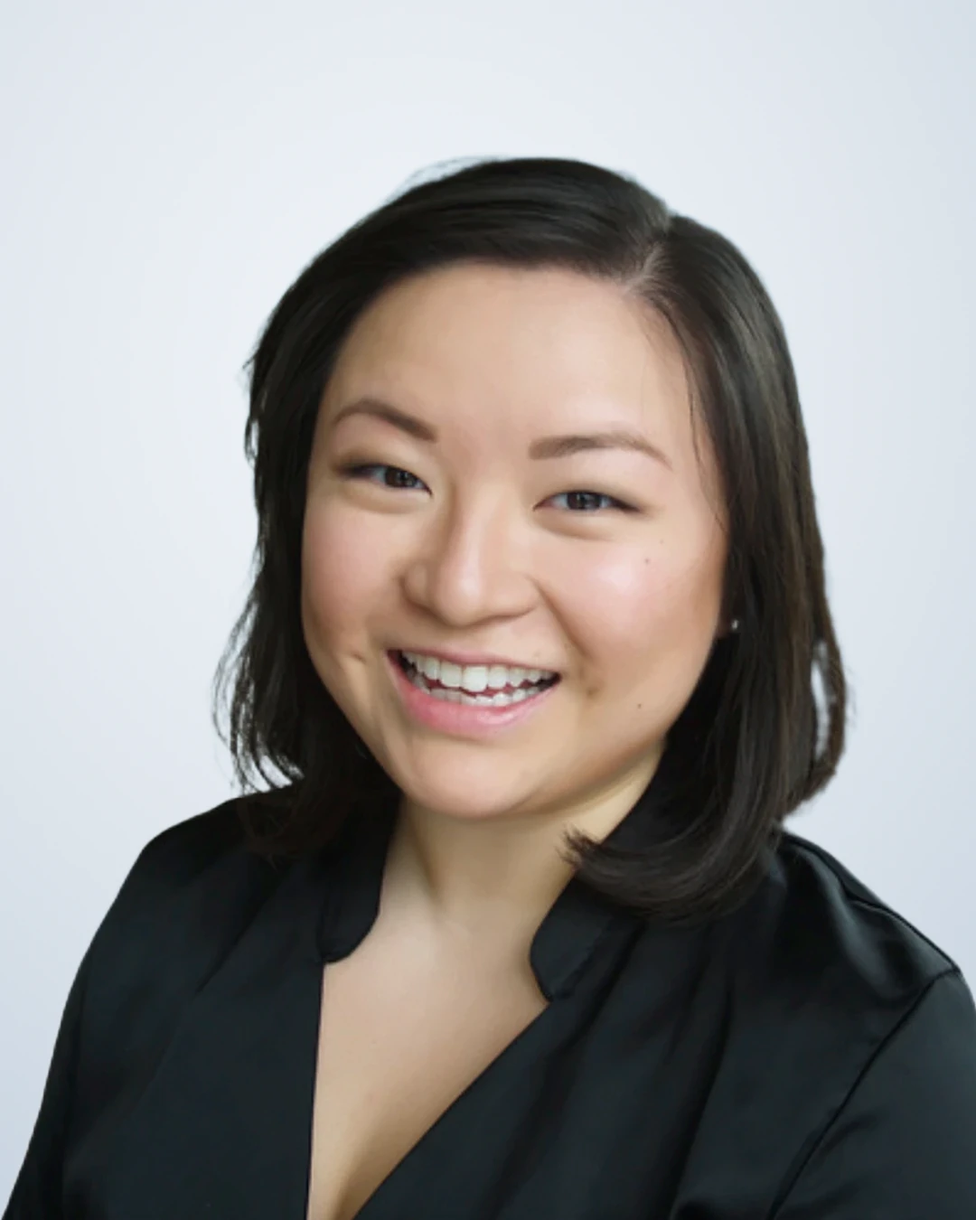
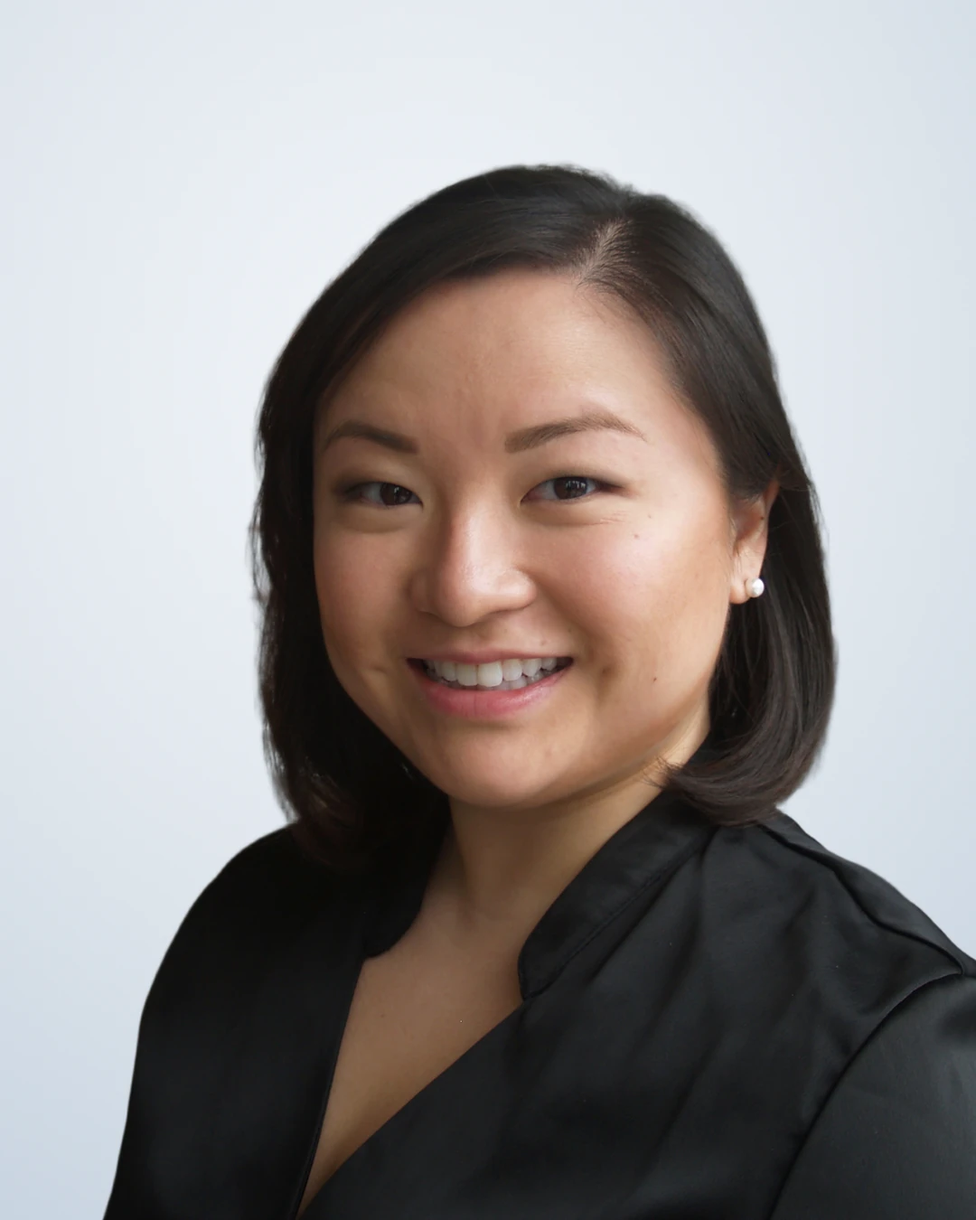
Hero loading still, Elaine's RSR headshot, robots.txt AI crawlers, drop languages
- Homepage hero: a still of the parcel-conveyor frame (no people, navy wall
  behind the headline) shows until the video is actually playing, then the
  video fades in. It stays for reduced-motion visitors (the video is paused,
  not just hidden) and when autoplay is refused; the pause button now
  follows real playback. The still is the LCP image (17-47 KB WebP).
- Elaine Kwon's portraits rebuilt from the RSR-Chanlogic headshot on the
  same eye line and face scale as before.
- robots.txt: AI crawler group lists current agent names and repeats the
  private paths.
- Removed Elaine's languages from the profile and Person JSON-LD.

Claude-Session: https://claude.ai/code/session_017EsnaMyvvQKwNurEzYtyMp

diff --git a/site-src/pages/Author.html b/site-src/pages/Author.html
@@ -431,7 +431,7 @@ footer a{color:#F8F6F1}footer a:hover{color:#DCBF85}
 <div class="kq-root" style="font-family: 'Neue Haas Grotesk Display Pro', 'Neue Haas Grotesk Text Pro', 'Helvetica Neue', Helvetica, Arial, sans-serif; color: #262524; background: #F8F6F1; font-size: 18px; line-height: 1.6">
 <header class="kq-head" style="position: sticky; top: 0; z-index: 20; background: #102A4C; padding: 0 clamp(20px, 4.4vw, 64px)"><nav aria-label="Primary" style="max-width: 1312px; margin: 0 auto; min-height: 88px; display: flex; flex-wrap: wrap; align-items: center; justify-content: space-between; gap: 16px 32px"><a href="index.html" aria-label="Kwontified home" style="display: flex"><img src="assets/023b2419eb30.svg" alt="Kwontified" style="height: 26px; width: auto"></a><div class="kq-links" style="display: flex; flex-wrap: wrap; align-items: center; gap: 8px 32px; font-size: 15px"><a href="Capabilities.html" style="color: #F8F6F1; text-decoration: none">Capabilities</a><a href="Channels.html" style="color: #F8F6F1; text-decoration: none">Channels</a><a href="Work.html" style="color: #F8F6F1; text-decoration: none">Work</a><a href="WhyKwontified.html" style="color: #F8F6F1; text-decoration: none">Why Kwontified</a><a href="Perspectives.html" style="color: #F8F6F1; text-decoration: none">Perspectives</a><a href="About.html" aria-current="page" style="color: #DCBF85; text-decoration: none">About</a><button type="button" class="kq-cmdk-btn" data-cmdk aria-label="Search the site" style="background: none; border: 0; border-radius: 0; color: #F8F6F1; font: inherit; font-size: 15px; height: auto; min-height: 44px; padding: 0; display: inline-flex; align-items: center; gap: 8px; cursor: pointer"><svg aria-hidden="true" width="16" height="16" viewBox="0 0 16 16" fill="none" stroke="currentColor" stroke-width="1.5" stroke-linecap="square"><circle cx="7" cy="7" r="4.5"></circle><path d="M10.5 10.5L14 14"></path></svg>Search</button><a href="ClientSignIn.html" style="color: #C9D4DF; text-decoration: none; font-size: 15px">Client sign-in</a><a class="kq-btn" href="Contact.html" style="background: #DCBF85; color: #102A4C; text-decoration: none; padding: 12px 20px; min-height: 44px; font-size: 15px; box-sizing: border-box; display: inline-flex; align-items: center">Request a review</a></div><details class="kq-navd"><summary class="kq-menu">Menu</summary><div class="kq-navpanel"><a href="Capabilities.html" style="color: #262524; text-decoration: none">Capabilities</a><a href="Channels.html" style="color: #262524; text-decoration: none">Channels</a><a href="Work.html" style="color: #262524; text-decoration: none">Work</a><a href="WhyKwontified.html" style="color: #262524; text-decoration: none">Why Kwontified</a><a href="Perspectives.html" style="color: #262524; text-decoration: none">Perspectives</a><a href="About.html" aria-current="page" style="color: #102A4C; text-decoration: none">About</a><button type="button" class="kq-cmdk-btn" data-cmdk aria-label="Search the site" style="background: none; border: 0; border-radius: 0; color: #262524; font: inherit; font-size: 15px; height: auto; min-height: 44px; padding: 0; display: inline-flex; align-items: center; gap: 8px; cursor: pointer"><svg aria-hidden="true" width="16" height="16" viewBox="0 0 16 16" fill="none" stroke="currentColor" stroke-width="1.5" stroke-linecap="square"><circle cx="7" cy="7" r="4.5"></circle><path d="M10.5 10.5L14 14"></path></svg>Search</button><a href="ClientSignIn.html" style="color: #626366; text-decoration: none; font-size: 15px">Client sign-in</a><a class="kq-btn" href="Contact.html" style="background: #102A4C; color: #F8F6F1; text-decoration: none; padding: 12px 20px; min-height: 44px; font-size: 15px; box-sizing: border-box; display: inline-flex; align-items: center">Request a review</a></div></details></nav></header>
 <main>
-<section aria-label="Profile" style="padding: 24px clamp(20px, 4.4vw, 64px) 24px"><div style="max-width: 1312px; margin: 0 auto"><nav aria-label="Breadcrumb" style="font-size: 15px; color: #626366; margin-bottom: 48px"><a href="index.html" style="color: #626366">Home</a> / <a href="About.html" style="color: #626366">About</a> / <a href="Leadership.html" style="color: #626366">Leadership</a> / <span aria-current="page">Elaine Kwon</span></nav><div style="display: flex; flex-wrap: wrap; gap: 48px 80px; align-items: flex-start"><img src="assets/leadership-elaine-kwon.jpg" srcset="assets/leadership-elaine-kwon-400.webp 400w, assets/leadership-elaine-kwon-600.webp 600w, assets/leadership-elaine-kwon-800.webp 800w, assets/leadership-elaine-kwon-1080.webp 1080w, assets/leadership-elaine-kwon-1440.webp 1440w" sizes="(max-width: 760px) calc(100vw - 48px), 360px" alt="Elaine Kwon" width="1440" height="1800" fetchpriority="high" style="flex: 0 1 360px; min-width: 0; aspect-ratio: 4 / 5; display: block; height: auto; object-fit: cover; background: #E1E9F1"><div style="flex: 1 1 520px; min-width: 0"><h1 id="page-title" style="margin: 0; font-weight: 400; font-size: clamp(38px, 3.9vw, 56px); line-height: 1.06; letter-spacing: -0.025em"><span class="kq-mask"><span class="kq-line">Elaine Kwon</span></span></h1><p style="margin: 16px 0 0; font-size: 22px; color: #626366">Co-Founder and Managing Partner</p><p data-remit style="margin: 12px 0 0; font-size: 18px; color: #775812">Leads client engagements and e-commerce operations</p><p style="margin: 32px 0 0; font-size: clamp(18px, 1.53vw, 22px); line-height: 1.45; max-width: 32em">Elaine Kwon co-founded Kwontified in 2016 and leads its client engagements and e-commerce operations: the teams that run each brand’s catalog and content, pricing, inventory and account health across Amazon, Walmart, Target Plus and international marketplaces.</p><p style="margin: 20px 0 0; font-size: clamp(18px, 1.53vw, 22px); line-height: 1.45; max-width: 32em">Before Kwontified, Elaine headed the luxury division at Amazon Fashion, where she managed the luxury goods P&amp;L across 150+ brands. As a Vendor Manager in Amazon’s watches and jewelry category, she advised houses including Gucci, Versace and Salvatore Ferragamo. She also ran Amazon’s Corporate Holiday Free-Shipping program, which later became the Free One-Day Shipping Prime Program. Her career began in supply chain and logistics at McMaster-Carr.</p><p style="margin: 20px 0 0; font-size: clamp(18px, 1.53vw, 22px); line-height: 1.45; max-width: 32em">Elaine is an Industry Leader for Ecommerce and Agentic Commerce at KeyBanc Capital Markets, speaks for KeyBanc on artificial intelligence in retail and e-commerce, and was a panelist at Amazon Ads unBoxed 2025. Her commentary on Amazon and fashion retail has appeared in The Wall Street Journal, The Business of Fashion and NPR. She holds a Bachelor of Arts from the University of Pennsylvania, completed MIT Professional Education’s Applied Agentic AI for Organizational Transformation program, and works in English, Spanish, Brazilian Portuguese and Korean.</p><ul aria-label="Credentials" style="margin: 28px 0 0; padding: 0; list-style: none; display: flex; flex-wrap: wrap; gap: 8px; font-size: 15px; line-height: 1.3"><li style="padding: 8px 14px; background: #FDFCFA; border: 1px solid #C9D3DD">Former head of luxury, Amazon Fashion</li><li style="padding: 8px 14px; background: #FDFCFA; border: 1px solid #C9D3DD">University of Pennsylvania, BA</li><li style="padding: 8px 14px; background: #FDFCFA; border: 1px solid #C9D3DD">MIT Professional Education, Applied Agentic AI</li><li style="padding: 8px 14px; background: #FDFCFA; border: 1px solid #C9D3DD">KeyBanc Capital Markets Industry Leader</li></ul><p style="margin: 32px 0 0"><a class="kq-btn" href="https://www.linkedin.com/in/elainekwon/" target="_blank" rel="noopener" aria-label="Elaine Kwon on LinkedIn (opens in a new tab)" style="display: inline-flex; align-items: center; gap: 12px; min-height: 52px; padding: 14px 24px; box-sizing: border-box; border: 1px solid #102A4C; color: #102A4C; background: transparent; text-decoration: none; font-size: 18px"><svg aria-hidden="true" width="20" height="20" viewBox="0 0 24 24" fill="currentColor"><path d="M20.45 20.45h-3.56v-5.57c0-1.33-.02-3.04-1.85-3.04-1.85 0-2.13 1.45-2.13 2.94v5.67H9.35V9h3.41v1.56h.05c.48-.9 1.64-1.85 3.37-1.85 3.6 0 4.27 2.37 4.27 5.46v6.28zM5.34 7.43a2.06 2.06 0 1 1 0-4.13 2.06 2.06 0 0 1 0 4.13zM7.12 20.45H3.56V9h3.56v11.45zM22.22 0H1.77C.79 0 0 .77 0 1.73v20.54C0 23.23.79 24 1.77 24h20.45c.98 0 1.78-.77 1.78-1.73V1.73C24 .77 23.2 0 22.22 0z"></path></svg><span>View Elaine on LinkedIn</span></a></p></div></div></div></section><section aria-labelledby="leads-title" style="padding: clamp(80px, 9vw, 144px) clamp(20px, 4.4vw, 64px) clamp(80px, 9vw, 144px); background: #E1E9F1"><div style="max-width: 1312px; margin: 0 auto"><div style="display: flex; flex-wrap: wrap; gap: 40px 80px"><div style="flex: 1 1 360px; min-width: 0"><h2 id="leads-title" style="margin: 0; font-weight: 400; font-size: clamp(30px, 2.8vw, 40px); line-height: 1.06; letter-spacing: -0.025em">What Elaine leads</h2><p style="margin: 24px 0 0; max-width: 26em">Elaine’s responsibilities at Kwontified.</p></div><ul style="flex: 999 1 560px; min-width: 0; margin: 0; padding: 0; list-style: none; display: grid; grid-template-columns: repeat(auto-fill, minmax(min(260px, 100%), 1fr)); gap: 12px"><li style="background: #FDFCFA; padding: 24px"><h3 style="margin: 0; font-weight: 500; font-size: 22px; line-height: 1.3">Client engagements</h3><p style="margin: 10px 0 0; font-size: 17px; line-height: 1.5">Every brand’s engagement, from the first account review to weekly and quarterly reporting against agreed targets.</p></li><li style="background: #FDFCFA; padding: 24px"><h3 style="margin: 0; font-weight: 500; font-size: 22px; line-height: 1.3">E-commerce operations</h3><p style="margin: 10px 0 0; font-size: 17px; line-height: 1.5">Catalog and content, pricing, inventory and replenishment planning, and account health.</p></li><li style="background: #FDFCFA; padding: 24px"><h3 style="margin: 0; font-weight: 500; font-size: 22px; line-height: 1.3">Marketplace expansion</h3><p style="margin: 10px 0 0; font-size: 17px; line-height: 1.5">New channels and countries, from Amazon’s international stores to Zalando, Mercado Libre and Target Plus.</p></li></ul></div></div></section><section aria-labelledby="bg-title" style="padding: clamp(80px, 9vw, 144px) clamp(20px, 4.4vw, 64px) clamp(80px, 9vw, 144px)"><div style="max-width: 1312px; margin: 0 auto"><h2 id="bg-title" style="margin: 0; font-weight: 400; font-size: clamp(30px, 2.8vw, 40px); line-height: 1.06; letter-spacing: -0.025em">Background</h2><div style="margin-top: 40px; display: grid; grid-template-columns: repeat(auto-fit, minmax(min(300px, 100%), 1fr)); gap: 40px"><div style="min-width: 0"><h3 style="margin: 0 0 8px; font-size: 15px; font-weight: 500; letter-spacing: 0.04em; text-transform: uppercase; color: #775812">Experience</h3><ul style="margin: 0; padding: 0; list-style: none"><li style="padding: 16px 0; border-top: 1px solid #C9D3DD"><p style="margin: 0; font-weight: 500; font-size: 19px; line-height: 1.3">Kwontified</p><p style="margin: 6px 0 0; font-size: 16px; line-height: 1.5; color: #626366">Co-Founder and Managing Partner, 2016 to present</p></li><li style="padding: 16px 0; border-top: 1px solid #C9D3DD"><p style="margin: 0; font-weight: 500; font-size: 19px; line-height: 1.3">Amazon</p><p style="margin: 6px 0 0; font-size: 16px; line-height: 1.5; color: #626366">Head of the luxury division, Amazon Fashion; Vendor Manager, watches and jewelry</p></li><li style="padding: 16px 0; border-top: 1px solid #C9D3DD"><p style="margin: 0; font-weight: 500; font-size: 19px; line-height: 1.3">McMaster-Carr</p><p style="margin: 6px 0 0; font-size: 16px; line-height: 1.5; color: #626366">Supply chain and logistics</p></li></ul></div><div style="min-width: 0"><h3 style="margin: 0 0 8px; font-size: 15px; font-weight: 500; letter-spacing: 0.04em; text-transform: uppercase; color: #775812">Education and training</h3><ul style="margin: 0; padding: 0; list-style: none"><li style="padding: 16px 0; border-top: 1px solid #C9D3DD"><p style="margin: 0; font-weight: 500; font-size: 19px; line-height: 1.3">University of Pennsylvania</p><p style="margin: 6px 0 0; font-size: 16px; line-height: 1.5; color: #626366">Bachelor of Arts</p></li><li style="padding: 16px 0; border-top: 1px solid #C9D3DD"><p style="margin: 0; font-weight: 500; font-size: 19px; line-height: 1.3">MIT Professional Education</p><p style="margin: 6px 0 0; font-size: 16px; line-height: 1.5; color: #626366">Applied Agentic AI for Organizational Transformation, 2026</p></li><li style="padding: 16px 0; border-top: 1px solid #C9D3DD"><p style="margin: 0; font-weight: 500; font-size: 19px; line-height: 1.3">Languages</p><p style="margin: 6px 0 0; font-size: 16px; line-height: 1.5; color: #626366">English, Spanish, Brazilian Portuguese and Korean</p></li></ul></div><div style="min-width: 0"><h3 style="margin: 0 0 8px; font-size: 15px; font-weight: 500; letter-spacing: 0.04em; text-transform: uppercase; color: #775812">Speaking</h3><ul style="margin: 0; padding: 0; list-style: none"><li style="padding: 16px 0; border-top: 1px solid #C9D3DD"><p style="margin: 0; font-weight: 500; font-size: 19px; line-height: 1.3">KeyBanc Capital Markets</p><p style="margin: 6px 0 0; font-size: 16px; line-height: 1.5; color: #626366">Industry Leader for Ecommerce and Agentic Commerce; speaker on artificial intelligence in retail and e-commerce</p></li><li style="padding: 16px 0; border-top: 1px solid #C9D3DD"><p style="margin: 0; font-weight: 500; font-size: 19px; line-height: 1.3">Amazon Ads unBoxed 2025</p><p style="margin: 6px 0 0; font-size: 16px; line-height: 1.5; color: #626366">Panelist</p></li></ul></div></div></div></section>
+<section aria-label="Profile" style="padding: 24px clamp(20px, 4.4vw, 64px) 24px"><div style="max-width: 1312px; margin: 0 auto"><nav aria-label="Breadcrumb" style="font-size: 15px; color: #626366; margin-bottom: 48px"><a href="index.html" style="color: #626366">Home</a> / <a href="About.html" style="color: #626366">About</a> / <a href="Leadership.html" style="color: #626366">Leadership</a> / <span aria-current="page">Elaine Kwon</span></nav><div style="display: flex; flex-wrap: wrap; gap: 48px 80px; align-items: flex-start"><img src="assets/leadership-elaine-kwon.jpg" srcset="assets/leadership-elaine-kwon-400.webp 400w, assets/leadership-elaine-kwon-600.webp 600w, assets/leadership-elaine-kwon-800.webp 800w, assets/leadership-elaine-kwon-1080.webp 1080w, assets/leadership-elaine-kwon-1440.webp 1440w" sizes="(max-width: 760px) calc(100vw - 48px), 360px" alt="Elaine Kwon" width="1440" height="1800" fetchpriority="high" style="flex: 0 1 360px; min-width: 0; aspect-ratio: 4 / 5; display: block; height: auto; object-fit: cover; background: #E1E9F1"><div style="flex: 1 1 520px; min-width: 0"><h1 id="page-title" style="margin: 0; font-weight: 400; font-size: clamp(38px, 3.9vw, 56px); line-height: 1.06; letter-spacing: -0.025em"><span class="kq-mask"><span class="kq-line">Elaine Kwon</span></span></h1><p style="margin: 16px 0 0; font-size: 22px; color: #626366">Co-Founder and Managing Partner</p><p data-remit style="margin: 12px 0 0; font-size: 18px; color: #775812">Leads client engagements and e-commerce operations</p><p style="margin: 32px 0 0; font-size: clamp(18px, 1.53vw, 22px); line-height: 1.45; max-width: 32em">Elaine Kwon co-founded Kwontified in 2016 and leads its client engagements and e-commerce operations: the teams that run each brand’s catalog and content, pricing, inventory and account health across Amazon, Walmart, Target Plus and international marketplaces.</p><p style="margin: 20px 0 0; font-size: clamp(18px, 1.53vw, 22px); line-height: 1.45; max-width: 32em">Before Kwontified, Elaine headed the luxury division at Amazon Fashion, where she managed the luxury goods P&amp;L across 150+ brands. As a Vendor Manager in Amazon’s watches and jewelry category, she advised houses including Gucci, Versace and Salvatore Ferragamo. She also ran Amazon’s Corporate Holiday Free-Shipping program, which later became the Free One-Day Shipping Prime Program. Her career began in supply chain and logistics at McMaster-Carr.</p><p style="margin: 20px 0 0; font-size: clamp(18px, 1.53vw, 22px); line-height: 1.45; max-width: 32em">Elaine is an Industry Leader for Ecommerce and Agentic Commerce at KeyBanc Capital Markets, speaks for KeyBanc on artificial intelligence in retail and e-commerce, and was a panelist at Amazon Ads unBoxed 2025. Her commentary on Amazon and fashion retail has appeared in The Wall Street Journal, The Business of Fashion and NPR. She holds a Bachelor of Arts from the University of Pennsylvania and completed MIT Professional Education’s Applied Agentic AI for Organizational Transformation program.</p><ul aria-label="Credentials" style="margin: 28px 0 0; padding: 0; list-style: none; display: flex; flex-wrap: wrap; gap: 8px; font-size: 15px; line-height: 1.3"><li style="padding: 8px 14px; background: #FDFCFA; border: 1px solid #C9D3DD">Former head of luxury, Amazon Fashion</li><li style="padding: 8px 14px; background: #FDFCFA; border: 1px solid #C9D3DD">University of Pennsylvania, BA</li><li style="padding: 8px 14px; background: #FDFCFA; border: 1px solid #C9D3DD">MIT Professional Education, Applied Agentic AI</li><li style="padding: 8px 14px; background: #FDFCFA; border: 1px solid #C9D3DD">KeyBanc Capital Markets Industry Leader</li></ul><p style="margin: 32px 0 0"><a class="kq-btn" href="https://www.linkedin.com/in/elainekwon/" target="_blank" rel="noopener" aria-label="Elaine Kwon on LinkedIn (opens in a new tab)" style="display: inline-flex; align-items: center; gap: 12px; min-height: 52px; padding: 14px 24px; box-sizing: border-box; border: 1px solid #102A4C; color: #102A4C; background: transparent; text-decoration: none; font-size: 18px"><svg aria-hidden="true" width="20" height="20" viewBox="0 0 24 24" fill="currentColor"><path d="M20.45 20.45h-3.56v-5.57c0-1.33-.02-3.04-1.85-3.04-1.85 0-2.13 1.45-2.13 2.94v5.67H9.35V9h3.41v1.56h.05c.48-.9 1.64-1.85 3.37-1.85 3.6 0 4.27 2.37 4.27 5.46v6.28zM5.34 7.43a2.06 2.06 0 1 1 0-4.13 2.06 2.06 0 0 1 0 4.13zM7.12 20.45H3.56V9h3.56v11.45zM22.22 0H1.77C.79 0 0 .77 0 1.73v20.54C0 23.23.79 24 1.77 24h20.45c.98 0 1.78-.77 1.78-1.73V1.73C24 .77 23.2 0 22.22 0z"></path></svg><span>View Elaine on LinkedIn</span></a></p></div></div></div></section><section aria-labelledby="leads-title" style="padding: clamp(80px, 9vw, 144px) clamp(20px, 4.4vw, 64px) clamp(80px, 9vw, 144px); background: #E1E9F1"><div style="max-width: 1312px; margin: 0 auto"><div style="display: flex; flex-wrap: wrap; gap: 40px 80px"><div style="flex: 1 1 360px; min-width: 0"><h2 id="leads-title" style="margin: 0; font-weight: 400; font-size: clamp(30px, 2.8vw, 40px); line-height: 1.06; letter-spacing: -0.025em">What Elaine leads</h2><p style="margin: 24px 0 0; max-width: 26em">Elaine’s responsibilities at Kwontified.</p></div><ul style="flex: 999 1 560px; min-width: 0; margin: 0; padding: 0; list-style: none; display: grid; grid-template-columns: repeat(auto-fill, minmax(min(260px, 100%), 1fr)); gap: 12px"><li style="background: #FDFCFA; padding: 24px"><h3 style="margin: 0; font-weight: 500; font-size: 22px; line-height: 1.3">Client engagements</h3><p style="margin: 10px 0 0; font-size: 17px; line-height: 1.5">Every brand’s engagement, from the first account review to weekly and quarterly reporting against agreed targets.</p></li><li style="background: #FDFCFA; padding: 24px"><h3 style="margin: 0; font-weight: 500; font-size: 22px; line-height: 1.3">E-commerce operations</h3><p style="margin: 10px 0 0; font-size: 17px; line-height: 1.5">Catalog and content, pricing, inventory and replenishment planning, and account health.</p></li><li style="background: #FDFCFA; padding: 24px"><h3 style="margin: 0; font-weight: 500; font-size: 22px; line-height: 1.3">Marketplace expansion</h3><p style="margin: 10px 0 0; font-size: 17px; line-height: 1.5">New channels and countries, from Amazon’s international stores to Zalando, Mercado Libre and Target Plus.</p></li></ul></div></div></section><section aria-labelledby="bg-title" style="padding: clamp(80px, 9vw, 144px) clamp(20px, 4.4vw, 64px) clamp(80px, 9vw, 144px)"><div style="max-width: 1312px; margin: 0 auto"><h2 id="bg-title" style="margin: 0; font-weight: 400; font-size: clamp(30px, 2.8vw, 40px); line-height: 1.06; letter-spacing: -0.025em">Background</h2><div style="margin-top: 40px; display: grid; grid-template-columns: repeat(auto-fit, minmax(min(300px, 100%), 1fr)); gap: 40px"><div style="min-width: 0"><h3 style="margin: 0 0 8px; font-size: 15px; font-weight: 500; letter-spacing: 0.04em; text-transform: uppercase; color: #775812">Experience</h3><ul style="margin: 0; padding: 0; list-style: none"><li style="padding: 16px 0; border-top: 1px solid #C9D3DD"><p style="margin: 0; font-weight: 500; font-size: 19px; line-height: 1.3">Kwontified</p><p style="margin: 6px 0 0; font-size: 16px; line-height: 1.5; color: #626366">Co-Founder and Managing Partner, 2016 to present</p></li><li style="padding: 16px 0; border-top: 1px solid #C9D3DD"><p style="margin: 0; font-weight: 500; font-size: 19px; line-height: 1.3">Amazon</p><p style="margin: 6px 0 0; font-size: 16px; line-height: 1.5; color: #626366">Head of the luxury division, Amazon Fashion; Vendor Manager, watches and jewelry</p></li><li style="padding: 16px 0; border-top: 1px solid #C9D3DD"><p style="margin: 0; font-weight: 500; font-size: 19px; line-height: 1.3">McMaster-Carr</p><p style="margin: 6px 0 0; font-size: 16px; line-height: 1.5; color: #626366">Supply chain and logistics</p></li></ul></div><div style="min-width: 0"><h3 style="margin: 0 0 8px; font-size: 15px; font-weight: 500; letter-spacing: 0.04em; text-transform: uppercase; color: #775812">Education and training</h3><ul style="margin: 0; padding: 0; list-style: none"><li style="padding: 16px 0; border-top: 1px solid #C9D3DD"><p style="margin: 0; font-weight: 500; font-size: 19px; line-height: 1.3">University of Pennsylvania</p><p style="margin: 6px 0 0; font-size: 16px; line-height: 1.5; color: #626366">Bachelor of Arts</p></li><li style="padding: 16px 0; border-top: 1px solid #C9D3DD"><p style="margin: 0; font-weight: 500; font-size: 19px; line-height: 1.3">MIT Professional Education</p><p style="margin: 6px 0 0; font-size: 16px; line-height: 1.5; color: #626366">Applied Agentic AI for Organizational Transformation, 2026</p></li></ul></div><div style="min-width: 0"><h3 style="margin: 0 0 8px; font-size: 15px; font-weight: 500; letter-spacing: 0.04em; text-transform: uppercase; color: #775812">Speaking</h3><ul style="margin: 0; padding: 0; list-style: none"><li style="padding: 16px 0; border-top: 1px solid #C9D3DD"><p style="margin: 0; font-weight: 500; font-size: 19px; line-height: 1.3">KeyBanc Capital Markets</p><p style="margin: 6px 0 0; font-size: 16px; line-height: 1.5; color: #626366">Industry Leader for Ecommerce and Agentic Commerce; speaker on artificial intelligence in retail and e-commerce</p></li><li style="padding: 16px 0; border-top: 1px solid #C9D3DD"><p style="margin: 0; font-weight: 500; font-size: 19px; line-height: 1.3">Amazon Ads unBoxed 2025</p><p style="margin: 6px 0 0; font-size: 16px; line-height: 1.5; color: #626366">Panelist</p></li></ul></div></div></div></section>
 <section style="padding: clamp(80px, 9vw, 144px) clamp(20px, 4.4vw, 64px) clamp(80px, 9vw, 144px); background: #E1E9F1"><div style="max-width: 1312px; margin: 0 auto"><div style="display: flex; flex-wrap: wrap; gap: 40px 80px"><div style="flex: 1 1 360px; min-width: 0"><h2 id="list-title" style="margin: 0; font-weight: 400; font-size: clamp(30px, 2.8vw, 40px); line-height: 1.06; letter-spacing: -0.025em">Writes about</h2><p style="margin: 24px 0 0; max-width: 26em">Topics Elaine covers in Perspectives and in press commentary.</p></div><ul style="flex: 999 1 560px; min-width: 0; margin: 0; padding: 0; list-style: none; display: grid; grid-template-columns: repeat(auto-fill, minmax(min(320px, 100%), 1fr)); gap: 12px; font-size: 22px; line-height: 1.4"><li style="background: #FDFCFA; padding: 20px 24px">Marketplace strategy across Amazon, Walmart and Target Plus</li><li style="background: #FDFCFA; padding: 20px 24px">Luxury and premium brands on marketplaces</li><li style="background: #FDFCFA; padding: 20px 24px">E-commerce operations and fulfillment</li><li style="background: #FDFCFA; padding: 20px 24px">AI shopping agents and agentic commerce</li></ul></div></div></section>
 <section style="padding: clamp(80px, 9vw, 144px) clamp(20px, 4.4vw, 64px) clamp(80px, 9vw, 144px)"><div style="max-width: 1312px; margin: 0 auto"><h2 id="arts-title" style="margin: 0; font-weight: 400; font-size: clamp(30px, 2.8vw, 40px); line-height: 1.06; letter-spacing: -0.025em">Articles</h2><div style="margin-top: 40px; display: grid; grid-template-columns: repeat(auto-fit, minmax(300px, 1fr)); gap: 40px"><article><p style="margin: 0; font-size: 15px; color: #626366">Event playbooks. All channels. Nov 5, 2026</p><h3 style="margin: 10px 0 0; font-weight: 500; font-size: 22px; line-height: 1.3"><a href="Post.html" style="color: #262524; text-decoration: none">Holiday 2026: the season now starts in October</a></h3></article><article><p style="margin: 0; font-size: 15px; color: #626366">Operations. All channels. Oct 29, 2026</p><h3 style="margin: 10px 0 0; font-weight: 500; font-size: 22px; line-height: 1.3"><a href="Post.html#A0994" style="color: #262524; text-decoration: none">Unauthorized resellers and the distribution decisions behind them</a></h3></article><article><p style="margin: 0; font-size: 15px; color: #626366">Event playbooks. Amazon. Oct 22, 2026</p><h3 style="margin: 10px 0 0; font-weight: 500; font-size: 22px; line-height: 1.3"><a href="Post.html#A0991" style="color: #262524; text-decoration: none">What Prime Big Deal Days 2026 revealed about shopper behavior</a></h3></article></div></div></section>
 <section aria-labelledby="press-title" style="padding: clamp(80px, 9vw, 144px) clamp(20px, 4.4vw, 64px) clamp(80px, 9vw, 144px); background: #E1E9F1"><div style="max-width: 1312px; margin: 0 auto"><h2 id="press-title" style="margin: 0; font-weight: 400; font-size: clamp(30px, 2.8vw, 40px); line-height: 1.06; letter-spacing: -0.025em">In the press</h2><p style="margin: 24px 0 0; max-width: 40em; font-size: 18px; line-height: 1.6">Elaine’s commentary has appeared in The Wall Street Journal, The Business of Fashion, CNBC, NPR, Digiday, Racked, GeekWire and Fierce Retail. The articles below quote or profile her by name. Links open the original article.</p><ul style="margin: 40px 0 0; padding: 0; list-style: none; display: grid; grid-template-columns: repeat(auto-fill, minmax(300px, 1fr)); gap: 12px"><li style="display: flex"><a href="https://www.npr.org/2018/06/07/618012790/when-it-comes-to-clothes-amazon-is-not-the-first-choice-for-online-shoppers" target="_blank" rel="noopener" style="flex: 1; display: flex; flex-direction: column; justify-content: space-between; gap: 24px; background: #FDFCFA; padding: 28px 32px; color: #262524; text-decoration: none; border-top: 3px solid #DCBF85"><span><span style="display: block; font-size: 15px; color: #775812">NPR</span><span style="display: block; margin-top: 10px; font-size: 22px; font-weight: 500; line-height: 1.3; color: #102A4C">When It Comes to Clothes, Amazon Is Not the First Choice for Online Shoppers</span></span><span style="font-size: 15px; color: #626366">Jun 7, 2018</span></a></li><li style="display: flex"><a href="https://digiday.com/marketing/amazons-pushing-private-label-brands-holidays/" target="_blank" rel="noopener" style="flex: 1; display: flex; flex-direction: column; justify-content: space-between; gap: 24px; background: #FDFCFA; padding: 28px 32px; color: #262524; text-decoration: none; border-top: 3px solid #DCBF85"><span><span style="display: block; font-size: 15px; color: #775812">Digiday</span><span style="display: block; margin-top: 10px; font-size: 22px; font-weight: 500; line-height: 1.3; color: #102A4C">Amazon’s pushing its private-label brands for the holidays</span></span><span style="font-size: 15px; color: #626366">Nov 9, 2017</span></a></li><li style="display: flex"><a href="https://digiday.com/marketing/amazon-reviews-bot-problem/" target="_blank" rel="noopener" style="flex: 1; display: flex; flex-direction: column; justify-content: space-between; gap: 24px; background: #FDFCFA; padding: 28px 32px; color: #262524; text-decoration: none; border-top: 3px solid #DCBF85"><span><span style="display: block; font-size: 15px; color: #775812">Digiday</span><span style="display: block; margin-top: 10px; font-size: 22px; font-weight: 500; line-height: 1.3; color: #102A4C">Amazon Reviews Have a Bot Problem</span></span><span style="font-size: 15px; color: #626366">Sep 18, 2017</span></a></li><li style="display: flex"><a href="https://www.fierceretail.com/digital/deciding-between-amazon-s-wholesale-and-marketplace" target="_blank" rel="noopener" style="flex: 1; display: flex; flex-direction: column; justify-content: space-between; gap: 24px; background: #FDFCFA; padding: 28px 32px; color: #262524; text-decoration: none; border-top: 3px solid #DCBF85"><span><span style="display: block; font-size: 15px; color: #775812">Fierce Retail</span><span style="display: block; margin-top: 10px; font-size: 22px; font-weight: 500; line-height: 1.3; color: #102A4C">Elaine Kwon: 5 reasons to switch from Amazon’s wholesale to marketplace</span></span><span style="font-size: 15px; color: #626366">Sep 7, 2017</span></a></li><li style="display: flex"><a href="https://digiday.com/social/amazons-fashion-charm-offensive-moves-london-fashion-week/" target="_blank" rel="noopener" style="flex: 1; display: flex; flex-direction: column; justify-content: space-between; gap: 24px; background: #FDFCFA; padding: 28px 32px; color: #262524; text-decoration: none; border-top: 3px solid #DCBF85"><span><span style="display: block; font-size: 15px; color: #775812">Digiday</span><span style="display: block; margin-top: 10px; font-size: 22px; font-weight: 500; line-height: 1.3; color: #102A4C">Amazon’s fashion charm offensive moves to London Fashion Week</span></span><span style="font-size: 15px; color: #626366">Aug 1, 2017</span></a></li><li style="display: flex"><a href="https://www.geekwire.com/2017/ex-amazon-managers-startup-kwontified-aims-help-fashion-retailers-navigate-e-commerce/" target="_blank" rel="noopener" style="flex: 1; display: flex; flex-direction: column; justify-content: space-between; gap: 24px; background: #FDFCFA; padding: 28px 32px; color: #262524; text-decoration: none; border-top: 3px solid #DCBF85"><span><span style="display: block; font-size: 15px; color: #775812">GeekWire</span><span style="display: block; margin-top: 10px; font-size: 22px; font-weight: 500; line-height: 1.3; color: #102A4C">Ex-Amazon manager’s startup Kwontified aims to help fashion retailers navigate e-commerce</span></span><span style="font-size: 15px; color: #626366">Jul 25, 2017</span></a></li><li style="display: flex"><a href="https://www.cnbc.com/2017/06/29/a-former-amazon-employee-has-a-warning-for-brands.html" target="_blank" rel="noopener" style="flex: 1; display: flex; flex-direction: column; justify-content: space-between; gap: 24px; background: #FDFCFA; padding: 28px 32px; color: #262524; text-decoration: none; border-top: 3px solid #DCBF85"><span><span style="display: block; font-size: 15px; color: #775812">CNBC</span><span style="display: block; margin-top: 10px; font-size: 22px; font-weight: 500; line-height: 1.3; color: #102A4C">A former Amazon employee has a warning for brands</span></span><span style="font-size: 15px; color: #626366">Jun 29, 2017</span></a></li><li style="display: flex"><a href="https://www.racked.com/2017/6/28/15881994/amazon-nike-partnership-elaine-kwon" target="_blank" rel="noopener" style="flex: 1; display: flex; flex-direction: column; justify-content: space-between; gap: 24px; background: #FDFCFA; padding: 28px 32px; color: #262524; text-decoration: none; border-top: 3px solid #DCBF85"><span><span style="display: block; font-size: 15px; color: #775812">Racked</span><span style="display: block; margin-top: 10px; font-size: 22px; font-weight: 500; line-height: 1.3; color: #102A4C">A Former Amazon Employee Has a Warning For Brands</span></span><span style="font-size: 15px; color: #626366">Jun 28, 2017</span></a></li></ul></div></section>

diff --git a/site-src/pages/index.html b/site-src/pages/index.html
@@ -33,9 +33,10 @@
 @font-face{font-family:'Neue Haas Grotesk Display Pro';src:url('assets/9bd31fcfc7a1.woff2') format('woff2');font-weight:700;font-style:normal;font-display:swap}
 
 @media (max-width:1199px){.kq-fh{display:block!important;min-height:0!important}.kq-fh-media{position:relative!important;aspect-ratio:16/9}.kq-fh-scrim{display:none}.kq-fh-text{padding:32px clamp(24px,5.5vw,80px) 44px!important}}
-.kq-fh-media{background:url(assets/11948d288a83.jpg) center/cover no-repeat}
-@media (max-width:1199px){.kq-fh-media{background-image:url(assets/e57c7576b74e.jpg)}}
-@media (prefers-reduced-motion:reduce){.kq-fh video{visibility:hidden}}
+/* still frame shown until the video is actually playing (and instead of it for reduced motion or blocked autoplay) */
+.kq-fh-media{background:#102A4C}.kq-fh-still{position:absolute;inset:0;width:100%;height:100%;display:block;object-fit:cover;object-position:50% 50%}
+.kq-fh video{transition:opacity .8s ease}.kq-fh-media.kq-wait video{opacity:0}
+@media (prefers-reduced-motion:reduce){.kq-fh video,.kq-fh-media button{visibility:hidden}}
 
 .kq-hh{position:sticky;top:0;z-index:40;transition:background-color .25s ease,box-shadow .25s ease}
 .kq-hh.is-stuck{background:#102A4C!important;box-shadow:0 1px 0 rgba(0,0,0,.18)}
@@ -170,7 +171,7 @@ button,select,input,textarea,summary{font-family:inherit}
 </div>
 </header>
 
-<section id="top" class="kq-fh" style="position: relative; background: #102A4C; color: #F8F6F1; min-height: clamp(520px, 52vw, 860px); display: flex; align-items: flex-end; overflow: hidden"><div class="kq-fh-media" style="position: absolute; inset: 0"><video autoplay="" muted="" loop="" playsinline="" aria-label="A shopper orders a navy sweater, a face cream and granola on her laptop; the three items are picked, packed in three boxes, sent down a conveyor and delivered to her door; she unpacks them and puts each one away; then the sweater brand's chief executive sees the sale arrive in his weekly report and leans back with his hands behind his head" style="position: absolute; inset: 0; width: 100%; height: 100%; display: block; object-fit: cover; object-position: 50% 50%"><source media="(max-width: 1199px)" src="assets/53d76f5a7f45.mp4" type="video/mp4"><source src="assets/8ae56daa0556.mp4" type="video/mp4"></video><button type="button" aria-label="Pause video" style="position: absolute; right: 12px; bottom: 10px; width: 44px; height: 44px; background: none; border: 0; color: #F8F6F1; cursor: pointer; display: flex; align-items: center; justify-content: center"><svg aria-hidden="true" width="18" height="18" viewBox="0 0 16 16" fill="none" stroke="currentColor" stroke-width="1.5" stroke-linecap="square"><path d="M6 3.5V12.5M10 3.5V12.5"></path></svg></button></div><div aria-hidden="true" class="kq-fh-scrim" style="position: absolute; inset: 0; pointer-events: none; background: linear-gradient(78deg, rgba(16,42,76,0.94) 0%, rgba(16,42,76,0.80) 26%, rgba(16,42,76,0.30) 48%, rgba(16,42,76,0) 60%), linear-gradient(0deg, rgba(16,42,76,0.50) 0%, rgba(16,42,76,0) 34%)"></div><div class="kq-fh-text" style="position: relative; box-sizing: border-box; width: 100%; max-width: 1440px; margin: 0 auto; padding: clamp(40px, 6vw, 96px) clamp(24px, 5.5vw, 80px) clamp(64px, 6.4vw, 96px); display: flex; flex-direction: column; gap: 22px; pointer-events: none"><div style="pointer-events: auto; display: flex; flex-direction: column; gap: 22px; max-width: 640px"><p style="margin: 0; font-size: 15px; font-weight: 500; color: #DCBF85">Marketplace management for consumer brands, since 2016</p><h1 style="color: #F8F6F1; max-width: 11em; margin: 0; font-size: clamp(40px, 4.6vw, 68px); line-height: 1.04; letter-spacing: -0.025em; font-weight: 400">Measured growth.<br>Beautiful work.</h1><p style="margin: 0; font-size: clamp(17px, 1.4vw, 20px); line-height: 1.5; max-width: 30em; color: #E9EEF4">One senior team runs your Amazon, Walmart, Target Plus and five more marketplaces as a single business: plan, advertising, creative and operations. We report every week and answer for your sales, return on ad spend and margin.</p><div style="display: flex; flex-wrap: wrap; align-items: center; gap: 12px 32px">
+<section id="top" class="kq-fh" style="position: relative; background: #102A4C; color: #F8F6F1; min-height: clamp(520px, 52vw, 860px); display: flex; align-items: flex-end; overflow: hidden"><div class="kq-fh-media" style="position: absolute; inset: 0"><img class="kq-fh-still" src="assets/home-hero-still.jpg" srcset="assets/home-hero-still-960.webp 960w, assets/home-hero-still-1440.webp 1440w, assets/home-hero-still-1920.webp 1920w" sizes="100vw" width="1920" height="1080" alt="" fetchpriority="high"><video autoplay="" muted="" loop="" playsinline="" poster="assets/home-hero-still-1440.webp" aria-label="A shopper orders a navy sweater, a face cream and granola on her laptop; the three items are picked, packed in three boxes, sent down a conveyor and delivered to her door; she unpacks them and puts each one away; then the sweater brand's chief executive sees the sale arrive in his weekly report and leans back with his hands behind his head" style="position: absolute; inset: 0; width: 100%; height: 100%; display: block; object-fit: cover; object-position: 50% 50%"><source media="(max-width: 1199px)" src="assets/53d76f5a7f45.mp4" type="video/mp4"><source src="assets/8ae56daa0556.mp4" type="video/mp4"></video><script>(function(){var v=document.currentScript.previousElementSibling,m=v.parentNode;if(!v.paused&&v.readyState>2)return;m.classList.add('kq-wait');v.addEventListener('playing',function(){m.classList.remove('kq-wait')},{once:true});})();</script><button type="button" aria-label="Pause video" style="position: absolute; right: 12px; bottom: 10px; width: 44px; height: 44px; background: none; border: 0; color: #F8F6F1; cursor: pointer; display: flex; align-items: center; justify-content: center"><svg aria-hidden="true" width="18" height="18" viewBox="0 0 16 16" fill="none" stroke="currentColor" stroke-width="1.5" stroke-linecap="square"><path d="M6 3.5V12.5M10 3.5V12.5"></path></svg></button></div><div aria-hidden="true" class="kq-fh-scrim" style="position: absolute; inset: 0; pointer-events: none; background: linear-gradient(78deg, rgba(16,42,76,0.94) 0%, rgba(16,42,76,0.80) 26%, rgba(16,42,76,0.30) 48%, rgba(16,42,76,0) 60%), linear-gradient(0deg, rgba(16,42,76,0.50) 0%, rgba(16,42,76,0) 34%)"></div><div class="kq-fh-text" style="position: relative; box-sizing: border-box; width: 100%; max-width: 1440px; margin: 0 auto; padding: clamp(40px, 6vw, 96px) clamp(24px, 5.5vw, 80px) clamp(64px, 6.4vw, 96px); display: flex; flex-direction: column; gap: 22px; pointer-events: none"><div style="pointer-events: auto; display: flex; flex-direction: column; gap: 22px; max-width: 640px"><p style="margin: 0; font-size: 15px; font-weight: 500; color: #DCBF85">Marketplace management for consumer brands, since 2016</p><h1 style="color: #F8F6F1; max-width: 11em; margin: 0; font-size: clamp(40px, 4.6vw, 68px); line-height: 1.04; letter-spacing: -0.025em; font-weight: 400">Measured growth.<br>Beautiful work.</h1><p style="margin: 0; font-size: clamp(17px, 1.4vw, 20px); line-height: 1.5; max-width: 30em; color: #E9EEF4">One senior team runs your Amazon, Walmart, Target Plus and five more marketplaces as a single business: plan, advertising, creative and operations. We report every week and answer for your sales, return on ad spend and margin.</p><div style="display: flex; flex-wrap: wrap; align-items: center; gap: 12px 32px">
 <a href="Contact.html" style="background: #DCBF85; color: #102A4C; text-decoration: none; padding: 16px 28px; border-radius: 14px; corner-shape: squircle; font-size: 16px; font-weight: 500">Request a marketplace review</a>
 <a href="Work.html" style="color: #F8F6F1; font-size: 16px; padding: 12px 0; display: inline-flex; align-items: center; gap: 10px; text-underline-offset: 5px">Read client case studies
 <svg aria-hidden="true" width="16" height="16" viewBox="0 0 16 16" fill="none" stroke="currentColor" stroke-width="1.5" stroke-linecap="square"><path d="M3 8H13M9 4L13 8L9 12"></path></svg></a>

diff --git a/app/robots.ts b/app/robots.ts
@@ -10,20 +10,24 @@ export default function robots(): MetadataRoute.Robots {
       },
       {
         // Explicitly welcome AI / answer-engine crawlers (AEO / GEO).
+        // A crawler named here follows only this group, not the "*" group above, so the
+        // same private paths are repeated. Claude-Web and anthropic-ai are retired tokens.
         userAgent: [
           "GPTBot",
           "OAI-SearchBot",
           "ChatGPT-User",
           "ClaudeBot",
-          "Claude-Web",
-          "anthropic-ai",
+          "Claude-SearchBot",
+          "Claude-User",
           "PerplexityBot",
+          "Perplexity-User",
           "Google-Extended",
           "Applebot-Extended",
           "Amazonbot",
           "CCBot",
         ],
         allow: "/",
+        disallow: ["/contact/thank-you", "/subscribe/thank-you", "/client-sign-in", "/api/", "/_kq/"],
       },
     ],
     sitemap: "https://kwontified.com/sitemap.xml",
